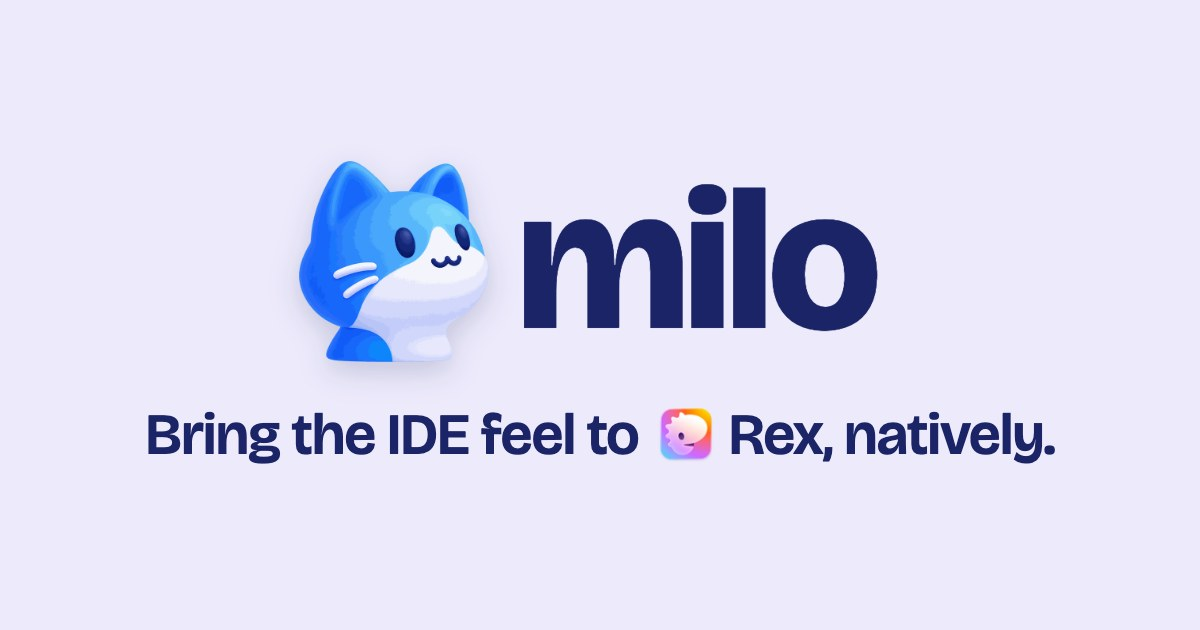
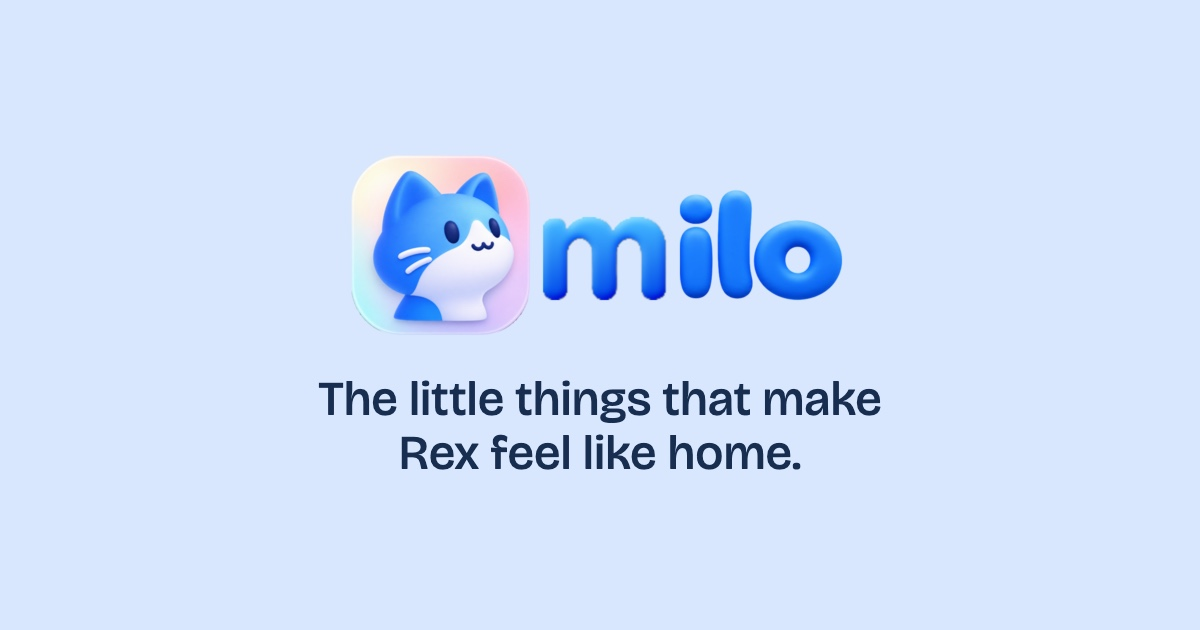
Introduce Milo as the little things that make Rex feel like home

Changed region(s): [[0.1233, 0.2413, 0.8942, 0.754]]

diff --git a/site/src/index.html b/site/src/index.html
@@ -5,25 +5,25 @@
     <meta name="viewport" content="width=device-width, initial-scale=1">
     <meta name="theme-color" content="#d8e7fe">
     <link rel="apple-touch-icon" href="/apple-touch-icon.png">
-    <title>milo — Bring the IDE feel to Rex, natively</title>
-    <meta name="description" content="Your files, commits and usage limits in panes beside Claude Code, Codex, omp or whichever agent you run. Native to Rex.">
+    <title>milo — The little things that make Rex feel like home</title>
+    <meta name="description" content="A file tree, commit history, diffs, and agent usage, right where you want them. Milo remembers how you like your panes.">
     <link rel="canonical" href="https://usemilo.net/">
     <link rel="alternate" type="text/plain" href="/llms.txt" title="Milo documentation index">
     <link rel="icon" type="image/png" sizes="48x48" href="/favicon.png">
     <meta property="og:type" content="website">
     <meta property="og:url" content="https://usemilo.net/">
-    <meta property="og:title" content="milo — Bring the IDE feel to Rex, natively">
-    <meta property="og:description" content="Your files, commits and usage limits in panes beside Claude Code, Codex, omp or whichever agent you run.">
+    <meta property="og:title" content="milo — The little things that make Rex feel like home">
+    <meta property="og:description" content="A file tree, commit history, diffs, and agent usage, right where you want them. Milo remembers how you like your panes.">
     <meta property="og:image" content="https://usemilo.net/milo-preview.jpg">
     <meta property="og:image:type" content="image/jpeg">
     <meta property="og:image:width" content="1200">
     <meta property="og:image:height" content="630">
-    <meta property="og:image:alt" content="Milo, a blue cat, beside the name milo and the words ‘Bring the IDE feel to Rex, natively.’">
+    <meta property="og:image:alt" content="Milo’s blue cat mascot and wordmark above the tagline: The little things that make Rex feel like home.">
     <meta name="twitter:card" content="summary_large_image">
-    <meta name="twitter:title" content="milo — Bring the IDE feel to Rex, natively">
-    <meta name="twitter:description" content="Your files, commits and usage limits in panes beside Claude Code, Codex, omp or whichever agent you run.">
+    <meta name="twitter:title" content="milo — The little things that make Rex feel like home">
+    <meta name="twitter:description" content="A file tree, commit history, diffs, and agent usage, right where you want them. Milo remembers how you like your panes.">
     <meta name="twitter:image" content="https://usemilo.net/milo-preview.jpg">
-    <meta name="twitter:image:alt" content="Milo, a blue cat, beside the name milo and the words ‘Bring the IDE feel to Rex, natively.’">
+    <meta name="twitter:image:alt" content="Milo’s blue cat mascot and wordmark above the tagline: The little things that make Rex feel like home.">
     <link rel="preload" href="./fonts/bricolage-grotesque-latin.woff2" as="font" type="font/woff2" crossorigin>
     <link rel="preload" href="./fonts/terminal-symbols.woff2" as="font" type="font/woff2" crossorigin>
     <link rel="stylesheet" href="./style.css">
@@ -44,8 +44,8 @@
         </header>
         <div class="intro">
           <div class="intro-copy">
-            <p class="description">Bring the IDE feel to <a class="rex" href="https://www.superlogical.com/rex"><img src="./images/rex.png" width="72" height="72" alt="">Rex</a>, natively.</p>
-            <p class="subtext">Your files, commits and usage limits beside your coding agent.</p>
+            <p class="description">The little things that make <a class="rex" href="https://www.superlogical.com/rex"><img src="./images/rex.png" width="72" height="72" alt="">Rex</a> feel like home.</p>
+            <p class="subtext">A file tree, commit history, diffs, and agent usage, right where you want them. Milo remembers how you like your panes.</p>
           </div>
           <div class="install">
             <span class="install-prompt" aria-hidden="true">$</span>
